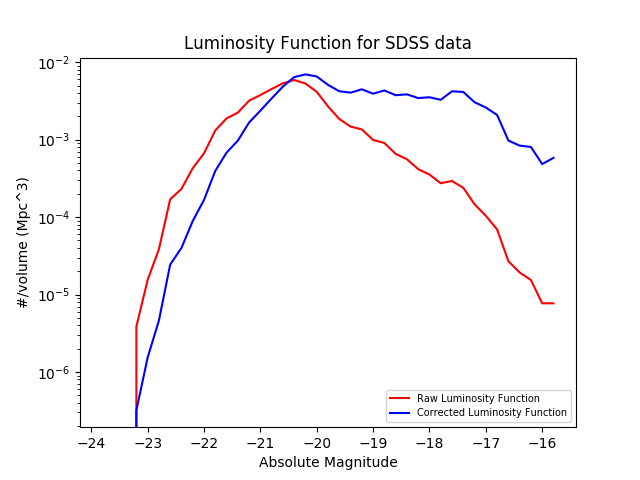
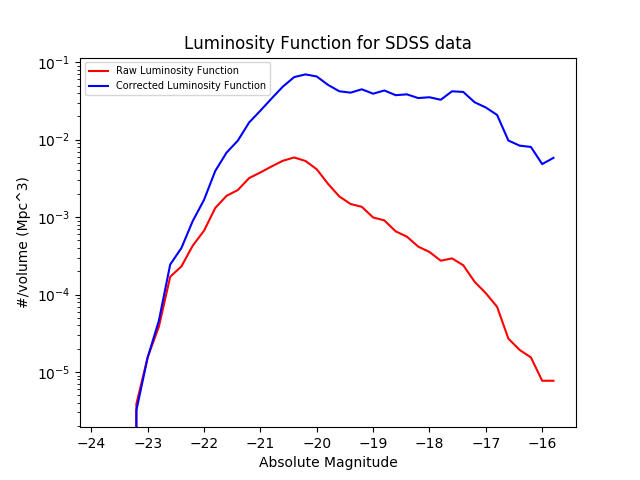
fixed scalar omega

diff --git a/termproject.py b/termproject.py
@@ -141,7 +141,7 @@ def effectiveVolume(mags):
 		dmax = pow(10, (limMag - mags[y] + 5)/5)
 		dmax = dmax / Mega # convert to Mpc
 		x = dmax/h
-		Omega = 1.e6 #scalar to shift the graph
+		Omega = 1.e5 #scalar to shift the graph
 		effV = Omega * (h**3) * ((.5 * pow(x,2)) + ((x + 1)*math.exp(-1 * x)) - 1)
 		effectiveVols.append(effV)
 
